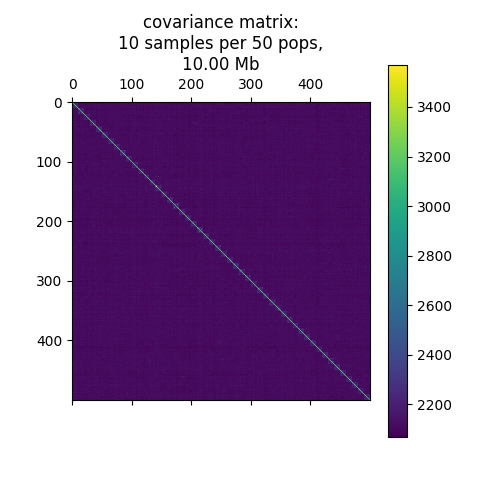
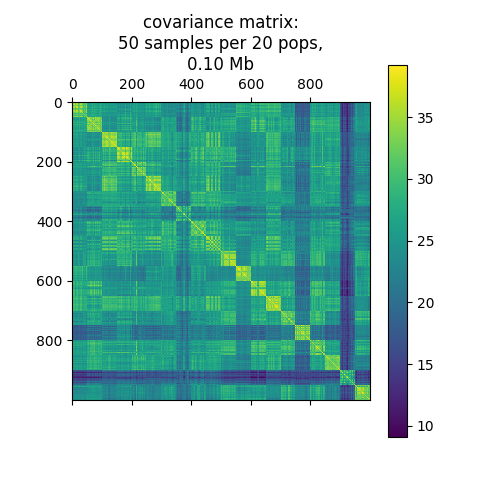
Add some pop structure to benchmarks

diff --git a/ste_draft/benchmark_likelihoods.py b/ste_draft/benchmark_likelihoods.py
@@ -39,14 +39,24 @@ if __name__ == "__main__":
     num_threads = 4
     numba.set_num_threads(num_threads)
     
+    n_samples = 50
+    n_pops = 20
+    s_length = 1e5
+    ne = 1e4
+    
+    island_model = msprime.Demography.island_model([ne] * n_pops, 1e-5 / n_pops)
+    for i in range(1, n_pops):
+        island_model.add_mass_migration(time=2*ne, source=i, dest=0, proportion=1.0)
+    
     ts = msprime.sim_ancestry(
-        samples=1000,
+        samples={f"pop_{i}": n_samples for i in range(n_pops)},
         recombination_rate=1e-8,
-        sequence_length=1e6,
-        population_size=1e4,
+        sequence_length=s_length,
+        demography=island_model,
         random_seed=1024,
     )
-    covariance = TraitCovariance(ts, mutation_rate=1e-8)
+
+    covariance = TraitCovariance(ts, mutation_rate=1e-10)
     preconditioner = NystromPreconditioner(covariance, rank=100, samples=200, seed=1)
 
     true_tau = 0.5

diff --git a/ste_draft/plot_matrix_structure.py b/ste_draft/plot_matrix_structure.py
@@ -6,12 +6,12 @@ from linear_operators import TraitCovariance
 num_threads = 4
 numba.set_num_threads(num_threads)
 
-n_samples = 25
-n_pops = 10
-s_length = 1e6
+n_samples = 50
+n_pops = 20
+s_length = 1e5
 ne = 1e4
 
-island_model = msprime.Demography.island_model([ne] * n_pops, 1e-5)
+island_model = msprime.Demography.island_model([ne] * n_pops, 1e-5 / n_pops)
 for i in range(1, n_pops):
     island_model.add_mass_migration(time=2*ne, source=i, dest=0, proportion=1.0)
 
